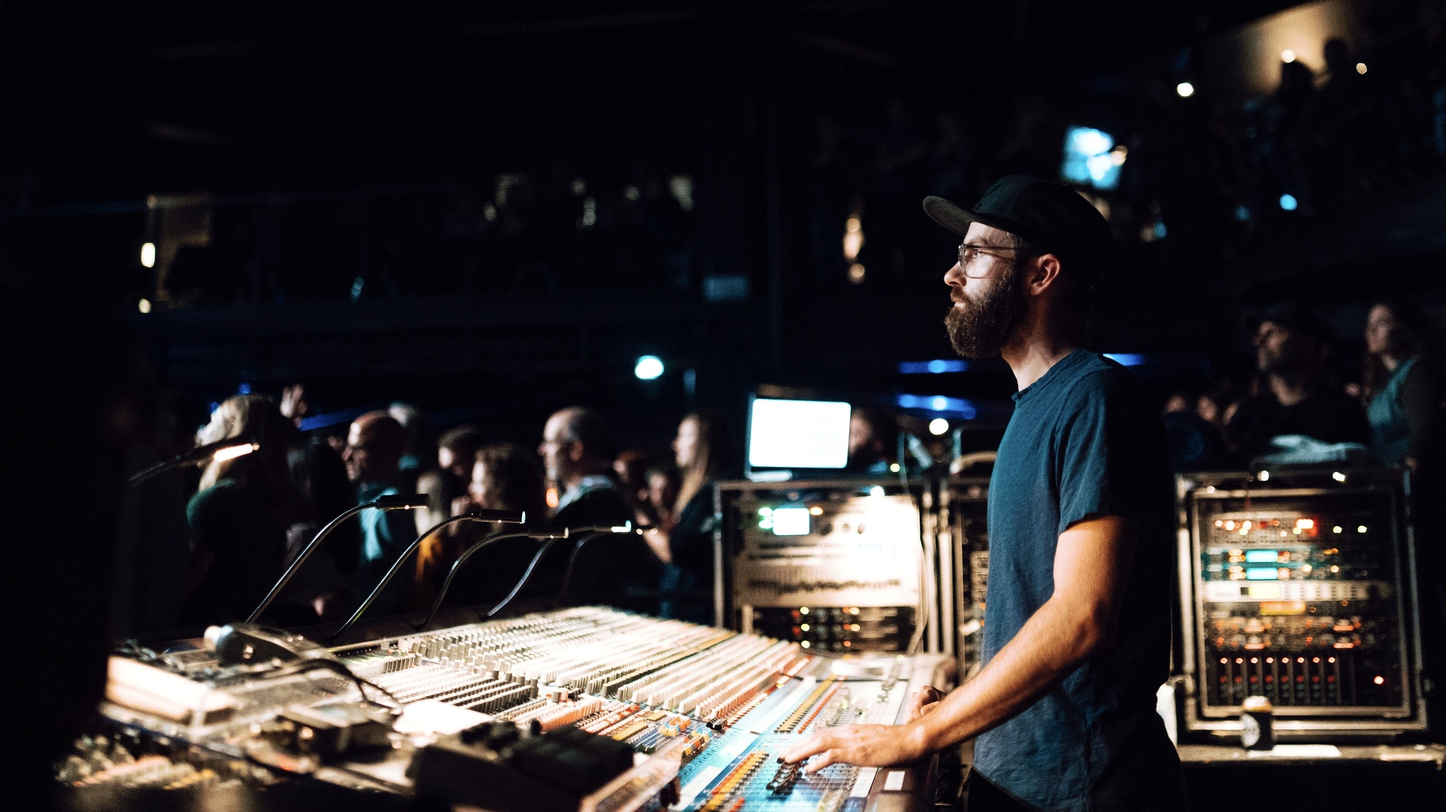
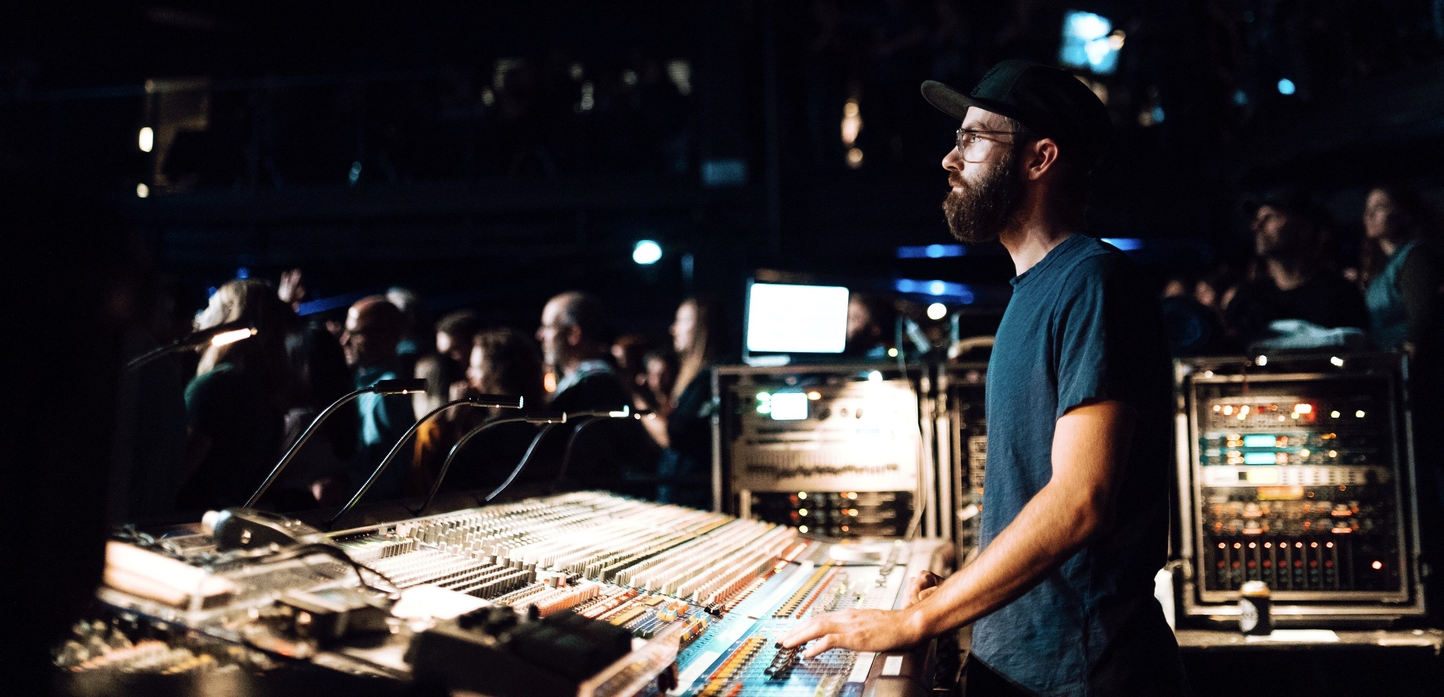
styling done on nav bar at top

diff --git a/style.css b/style.css
@@ -86,7 +86,7 @@ p {
 /* MOBILE STYLING  */
 
 body {
-    background: var(--primary);
+    background: black;
     overflow-x: hidden;
 }
 
@@ -104,21 +104,23 @@ body {
 .about-image {
     position: relative;
     top: 0;
+    margin-left: auto;
+    margin-right: auto;
     width: 100%;
     height: auto;
-    /* display: none; */
+    max-width: 960px;
+    max-height: 540px;
 }
 
 #site-nav {
     height: auto;
+    max-height: 540px;
     border-bottom: 3px solid black;
 }
 
 #site-nav h1 {
     position: absolute;
     top: 0;
-    /* padding-left: 20px; */
-    /* padding-top: 25px; */
     padding: 25px 20px;
     background-color: black
 }
@@ -128,7 +130,6 @@ body {
     top: 60px;
     font-size: 1em;
     padding: 15px 20px;
-    /* padding-left: 20px; */
     border-bottom: 3px solid var(--accent);
     background-color: black;
 }
@@ -306,6 +307,9 @@ footer {
 /* SMALL TABLET  */
 
 @media screen and (min-width: 620px) {
+    body {
+        font-size: 18px;
+    }
     #gallery {
         background-color: black;
     }
@@ -316,22 +320,18 @@ footer {
         margin-right: auto;
     }
     #gallery .grid .image:nth-child(1) {
-        /* border: 3px solid red; */
         grid-column: 2/5;
         grid-row: 1;
     }
     #gallery .grid .image:nth-child(2) {
-        /* border: 3px solid red; */
         grid-column: 5/8;
         grid-row: 1;
     }
     #gallery .grid .image:nth-child(3) {
-        /* border: 3px solid red; */
         grid-column: 2/5;
         grid-row: 2;
     }
     #gallery .grid .image:nth-child(4) {
-        /* border: 3px solid red; */
         grid-column: 5/8;
         grid-row: 2;
     }
@@ -351,15 +351,42 @@ footer {
 /* LARGE TABLET AND LAPTOP  */
 
 @media screen and (min-width: 940px) {
-    /* .links {
-        display: inline;
+    body {
+        font-size: 20px;
+    }
+    #site-nav h1 {
+        position: absolute;
+        top: 30px;
+        padding: 25px 30px;
+        background-color: black
+    }
+    #site-nav h3 {
+        position: absolute;
+        top: 90px;
+        font-size: 1em;
+        padding: 15px 30px;
+        border-bottom: 3px solid var(--accent);
+        /* background-color: black; */
     }
     .links {
-        position: relative;
-        color: white;
-        right: 0;
+        display: flex;
+        position: absolute;
         top: 0;
-    } */
+        right: 0;
+        background-color: black;
+        padding: 15px;
+    }
+    .links a {
+        margin: 10px 5px;
+        font-size: 0.9em;
+        padding: 5px;
+        color: var(--secondary);
+        border-bottom: 1px solid var(--accent);
+        border-right: 1px solid var(--accent);
+    }
+    .links a:hover {
+        background-color: var(--accent);
+    }
 }
 
 

diff --git a/index.html b/index.html
@@ -6,7 +6,6 @@
     <meta name="viewport" content="width=device-width, initial-scale=1.0">
     <title>Document</title>
     <link rel="stylesheet" href="style.css">
-    <!-- <link rel="stylesheet" href="style_2.css"> -->
 </head>
 
 <body>
@@ -112,8 +111,8 @@
         <p class="copyright">
             Copyright 2020 Craig Carlson
         </p>
-        <p>GH</p>
-        <p>IG</p>
+        <a href="https://github.com/c-squared87/production-portfolio">GH</a>
+        <a href="https://www.instagram.com/par_for_the_craig/">IG</a>
     </footer>
 </body>
 
